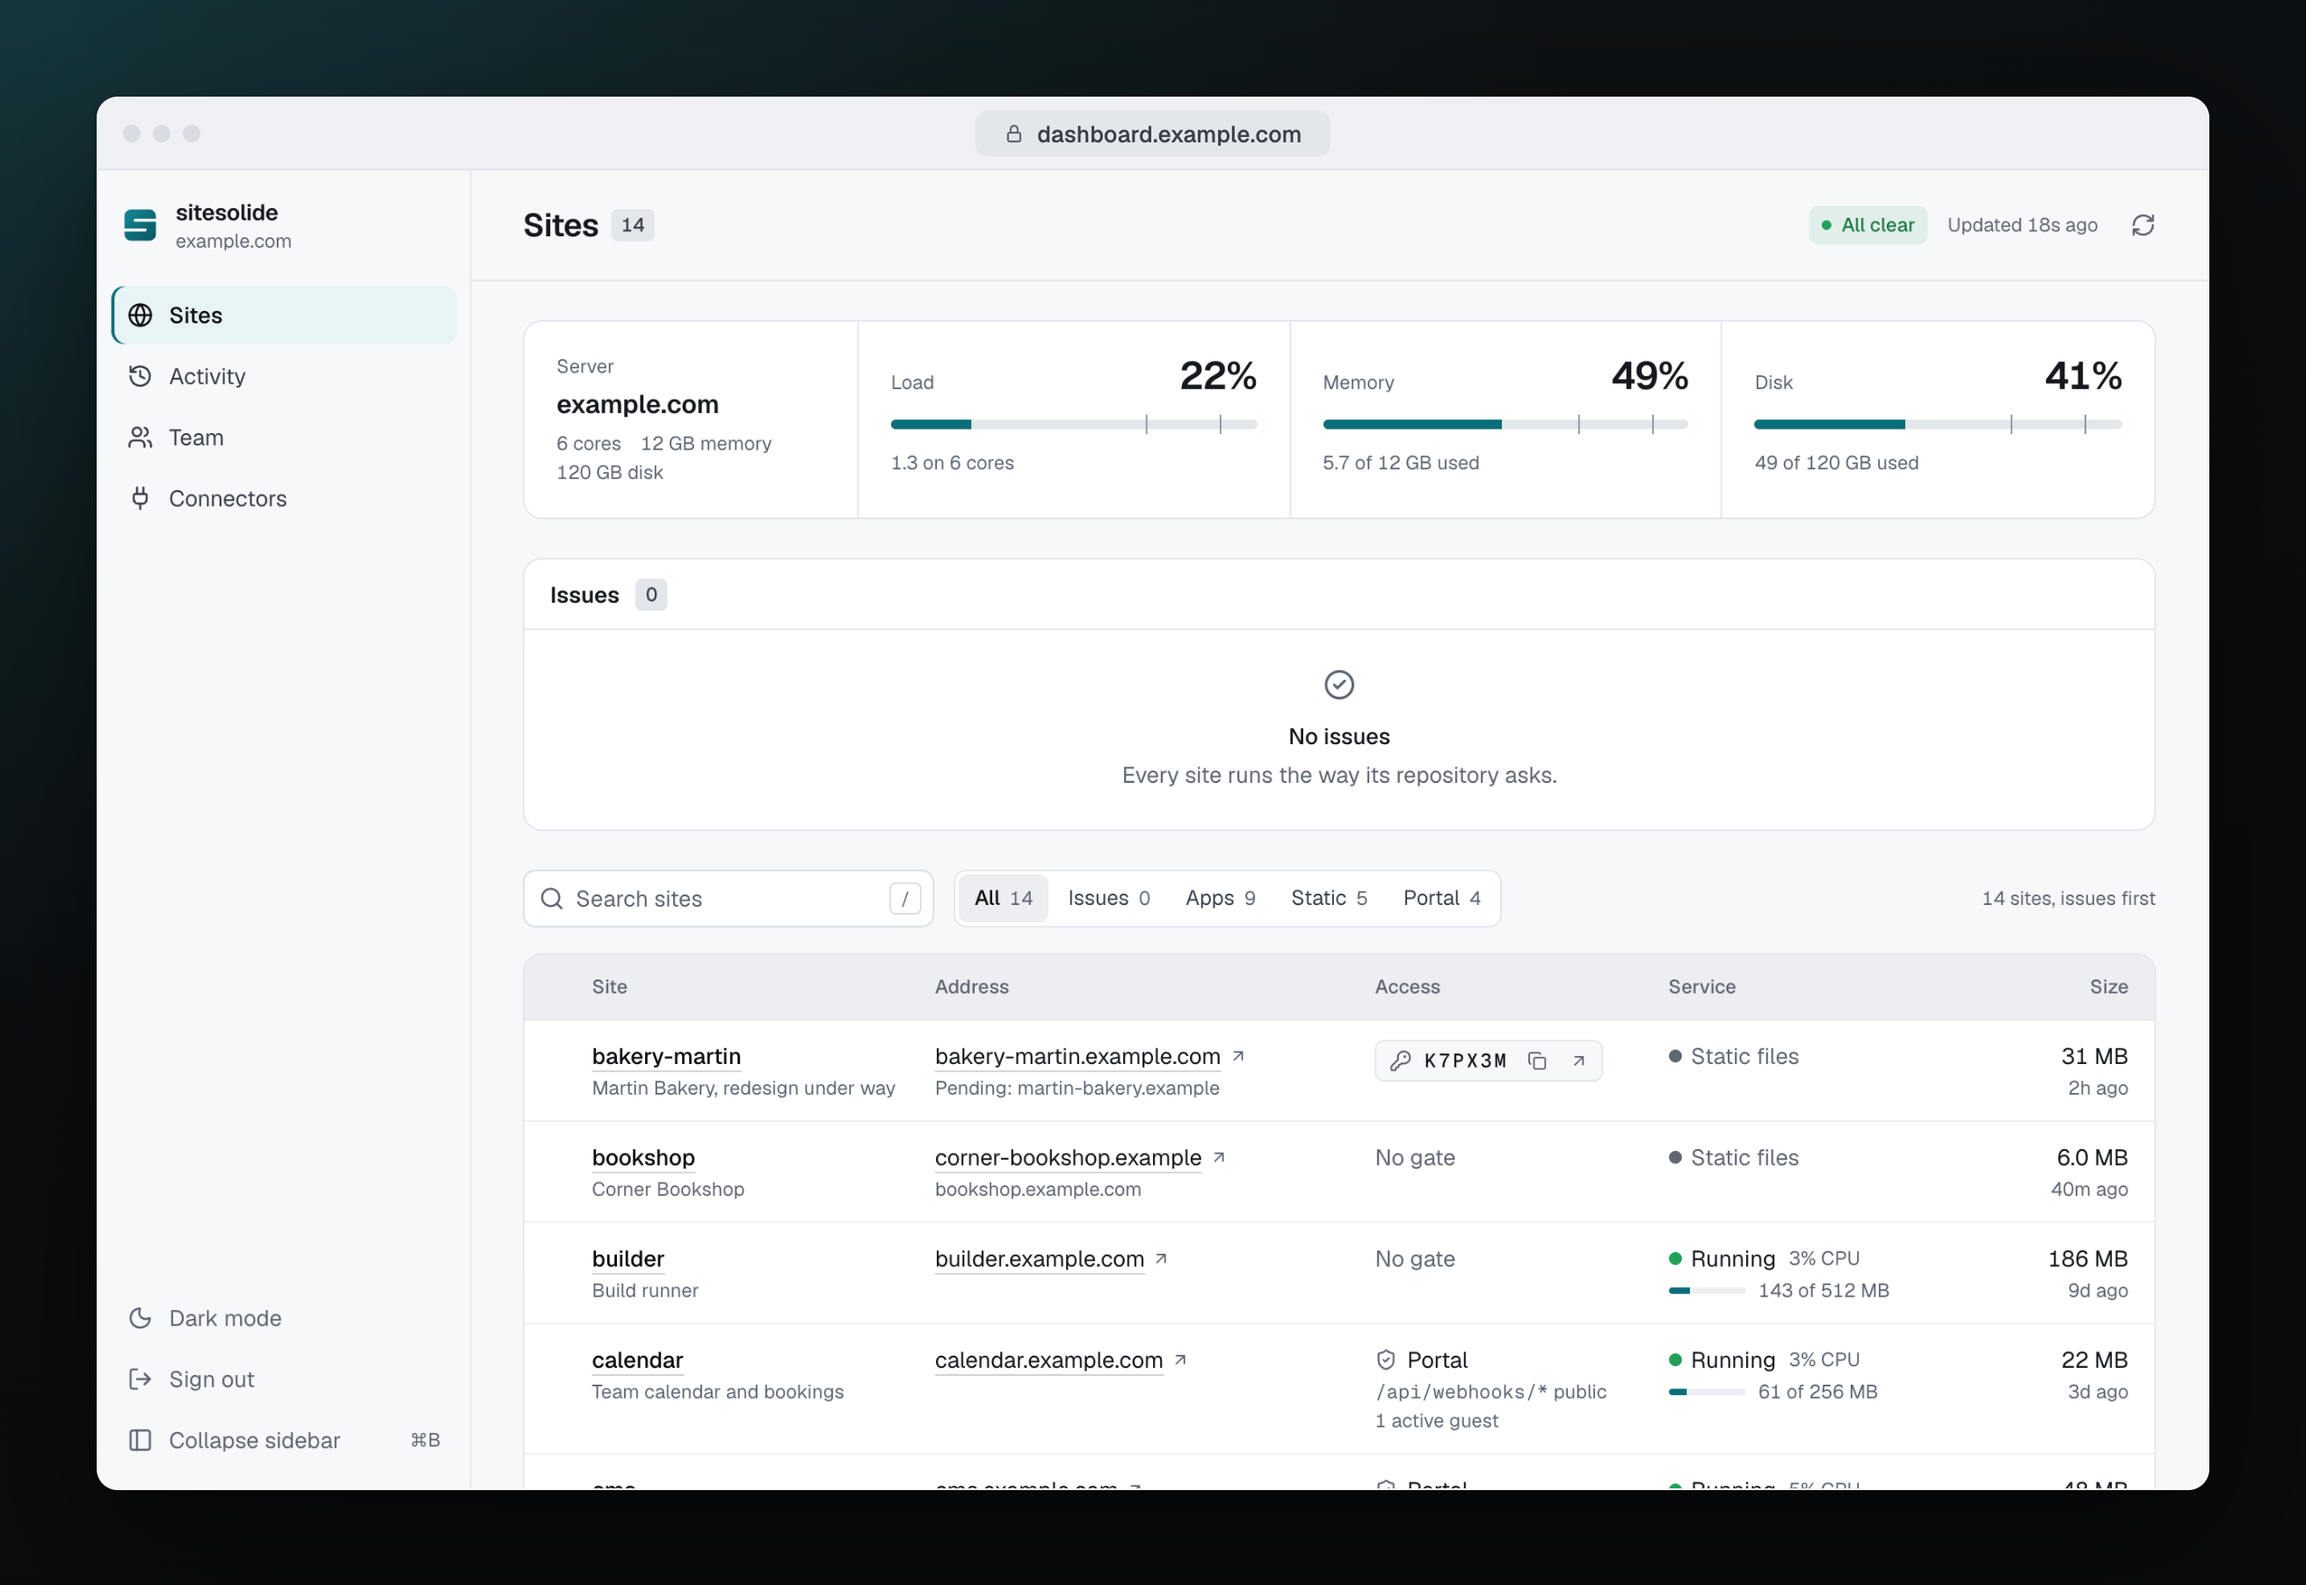
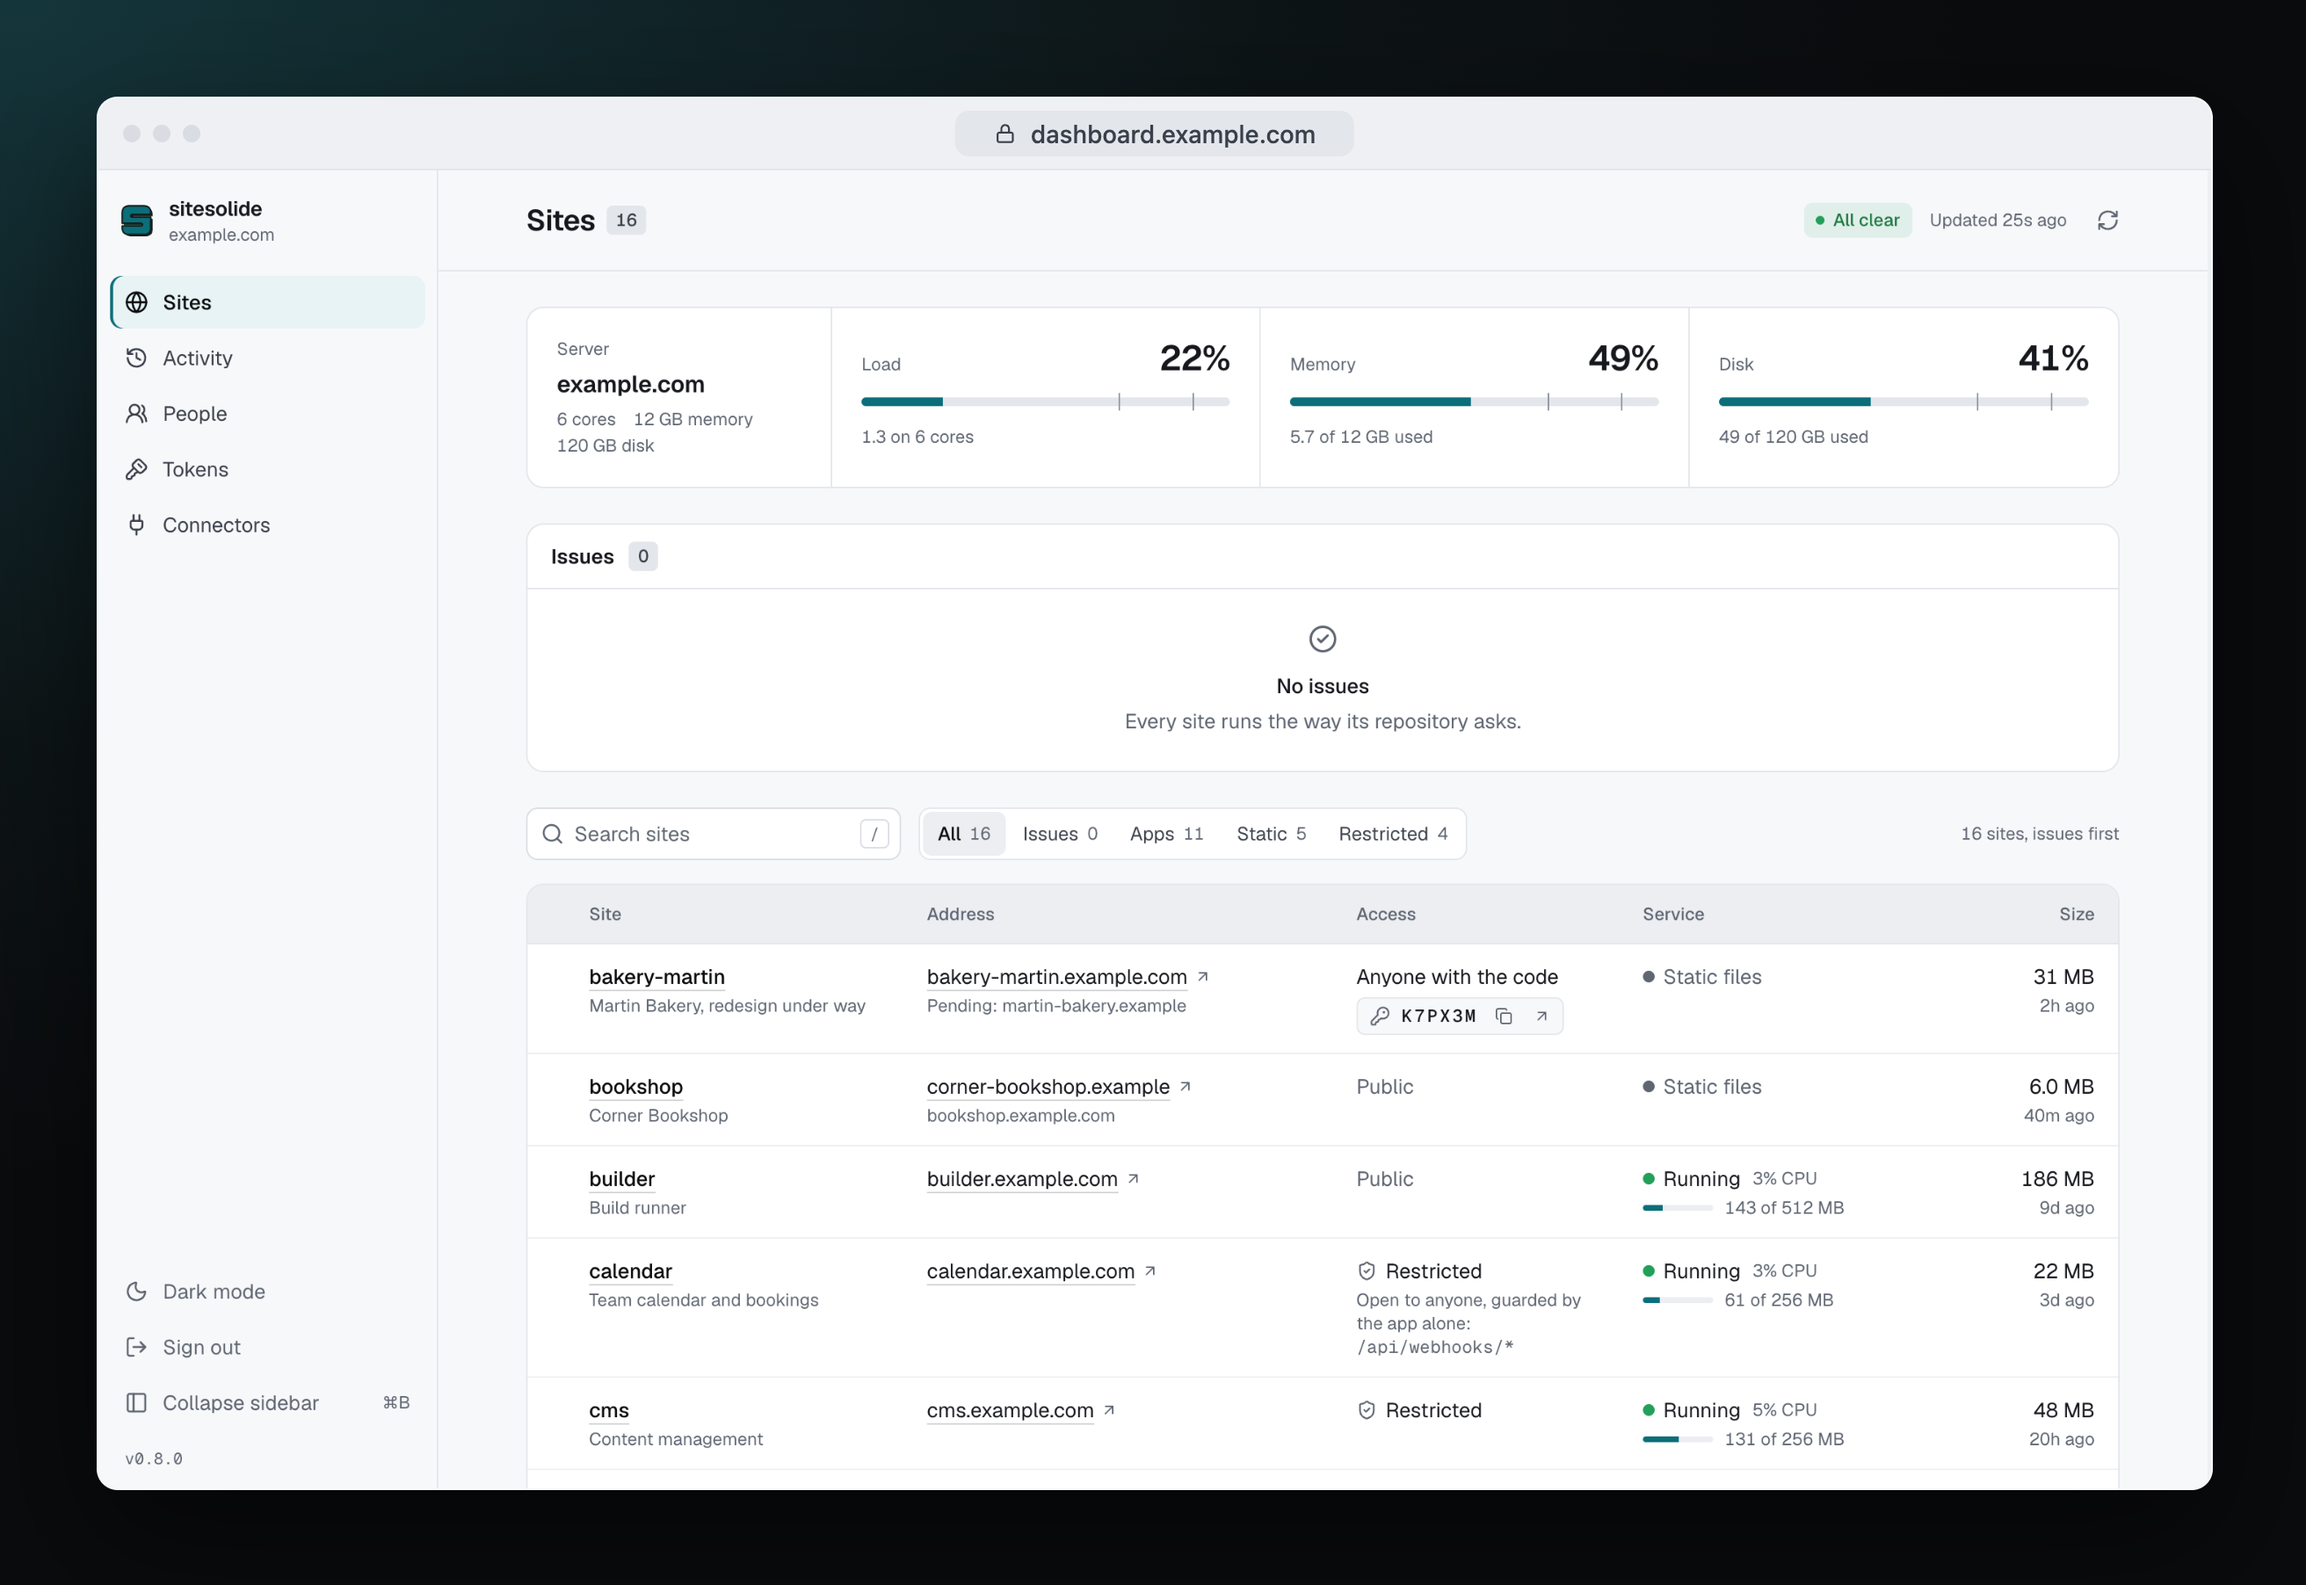
Retake the README's screenshot, the door page's and the social card
They still showed the gradient mark, and the dashboard's had a sidebar
from before People and Tokens. Both screenshots are retaken from the page
bench's showcase and the door page's template, at the size and in the
frame the earlier ones had. The social card was older still, red and with
a tagline the project no longer uses: it is now the landing page's share
card at GitHub's size, with the repository's address, which GitHub only
picks up once it is uploaded again under Settings.

The previous commits had also written the landing page's domain into the
repository, which names no machine; they say "the landing page" instead.

diff --git a/portal/src/page.ts b/portal/src/page.ts
@@ -32,8 +32,8 @@ const ICON =
 
 /**
  * The portal's logo: a solid block with two slits cut in from opposite
- * sides, the S of sitesolide, drawn as sitesolide.fr and the dashboard draw
- * it, its hard shadow offset down and to the right, then its petrol face
+ * sides, the S of sitesolide, drawn as the landing page and the dashboard
+ * draw it, its hard shadow offset down and to the right, then its petrol face
  * ringed with the line, in the landing page's light colours. Inline rather
  * than as a file, for the same reason as the rest of the page; presentation
  * attributes rather than a class, so that it needs nothing of the stylesheet.

diff --git a/docs/assets/README.md b/docs/assets/README.md
@@ -5,14 +5,14 @@
 | `logo-light.svg` | The logo on a light background: the README, documentation. |
 | `logo-dark.svg` | The same on a dark background, where the mark's line turns pale and its shadow lifts, as on the landing page in dark. |
 | `mark.svg` | The mark alone, square, for an avatar or an icon. |
-| `social-preview.png` | The repository's social card, 1280 × 640, set under *Settings → Social preview*. |
-| `screenshots/` | Screenshots, `dashboard.png` in the README: the real dashboard, run by its page bench in showcase mode (`BENCH_SHOWCASE=1 bun scripts/page-bench.ts` in `dashboard/`), with fictitious sites, framed on near black graphite lit by the brand's petrol. |
+| `social-preview.png` | The repository's social card, 1280 × 640: the landing page's share card, its title and its command, with the repository's address. GitHub does not read it from here: a new one is uploaded by hand under *Settings → Social preview*. |
+| `screenshots/` | Screenshots, `dashboard.png` in the README: the real dashboard, run by its page bench in showcase mode (`BENCH_SHOWCASE=1 bun scripts/page-bench.ts` in `dashboard/`), with fictitious sites, framed on near black graphite lit by the brand's petrol. The dashboard is taken at 1440 × 900 and the door page at 1200 × 720, both at twice the density, then set in a window 1200 and 1000 wide. |
 
 **The mark** is a solid block with two slits cut in from opposite sides: the S
 of sitesolide, left standing in the material. The slits are holes rather than
 bars painted over the block, so any background shows through them.
 
-It is drawn as sitesolide.fr's header draws it: the block laid twice, a hard
+It is drawn as the landing page's header draws it: the block laid twice, a hard
 shadow offset by 1.6 down and to the right, then a petrol face ringed with a
 line 1.5 wide. These files, the dashboard (`dashboard/web/src/components/logo.tsx`)
 and the portal's page (`portal/src/page.ts`) carry that drawing; a change goes

diff --git a/dashboard/web/DESIGN.md b/dashboard/web/DESIGN.md
@@ -73,8 +73,8 @@ All in `src/styles/global.css`, under `:root` (light) and `.dark`. A component
 palest, for a surface that says "here", and `primary`, the accent. Dark lifts
 the accent and turns the tint into a deep petrol surface.
 
-**The logo is the landing page's**, drawn as sitesolide.fr draws it in its
-header: the block laid twice, a hard shadow offset down and to the right, then
+**The logo is the landing page's**, drawn as it is in that page's header: the
+block laid twice, a hard shadow offset down and to the right, then
 a petrol face ringed with a line. Its three tokens are the landing page's own
 values rather than the dashboard's greys, so the mark is the same on both
 sites; in light, its face is the accent itself. The portal's page and
